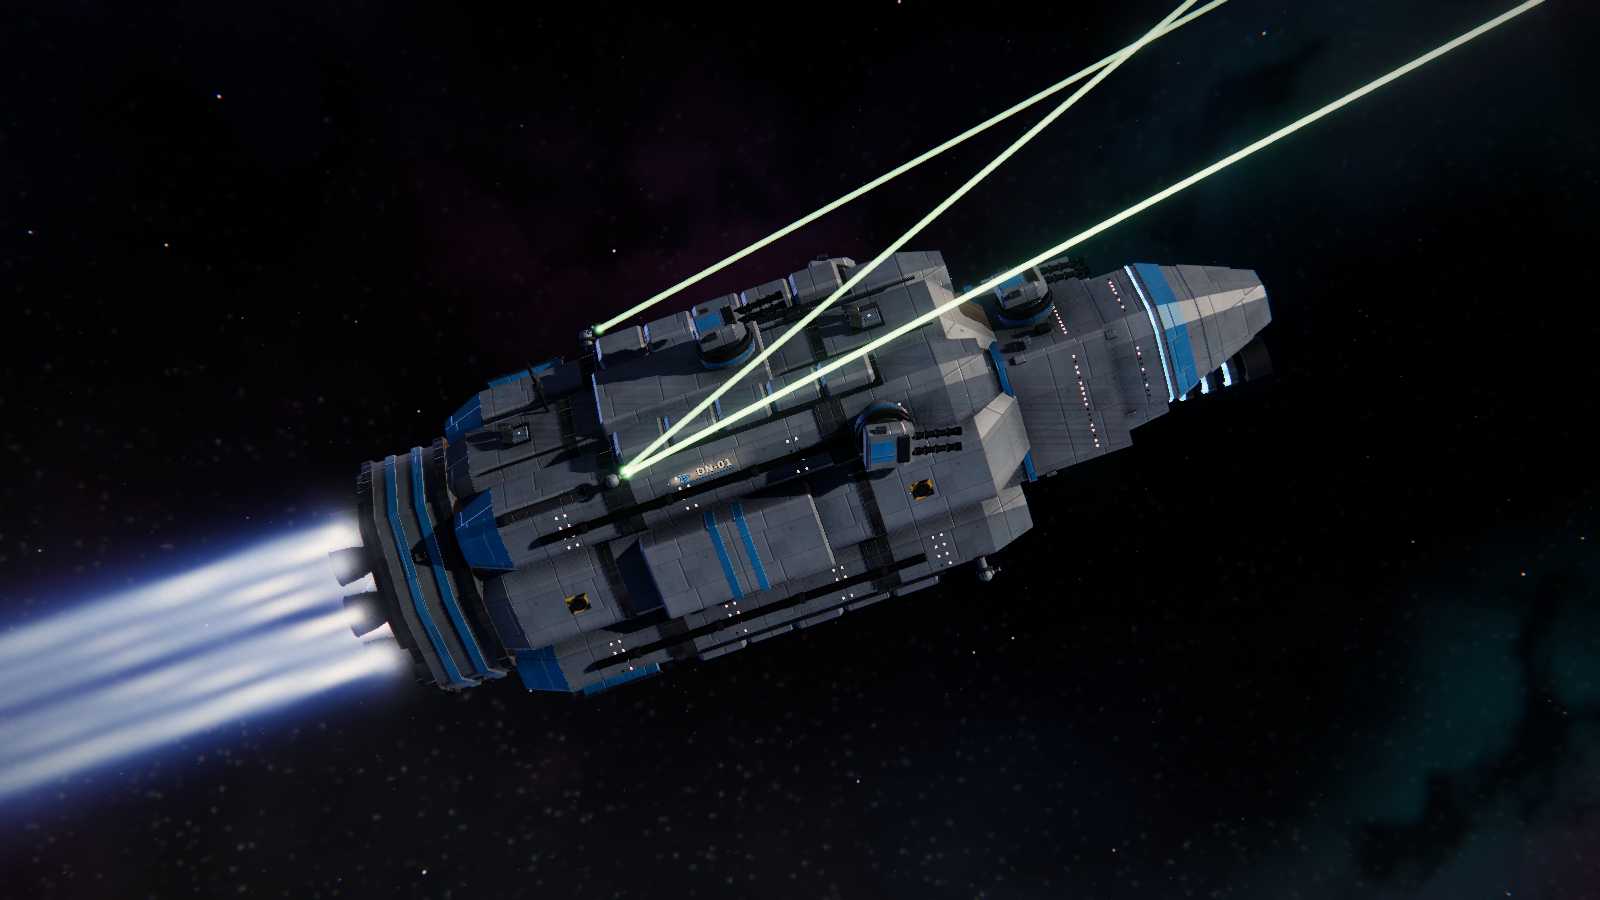
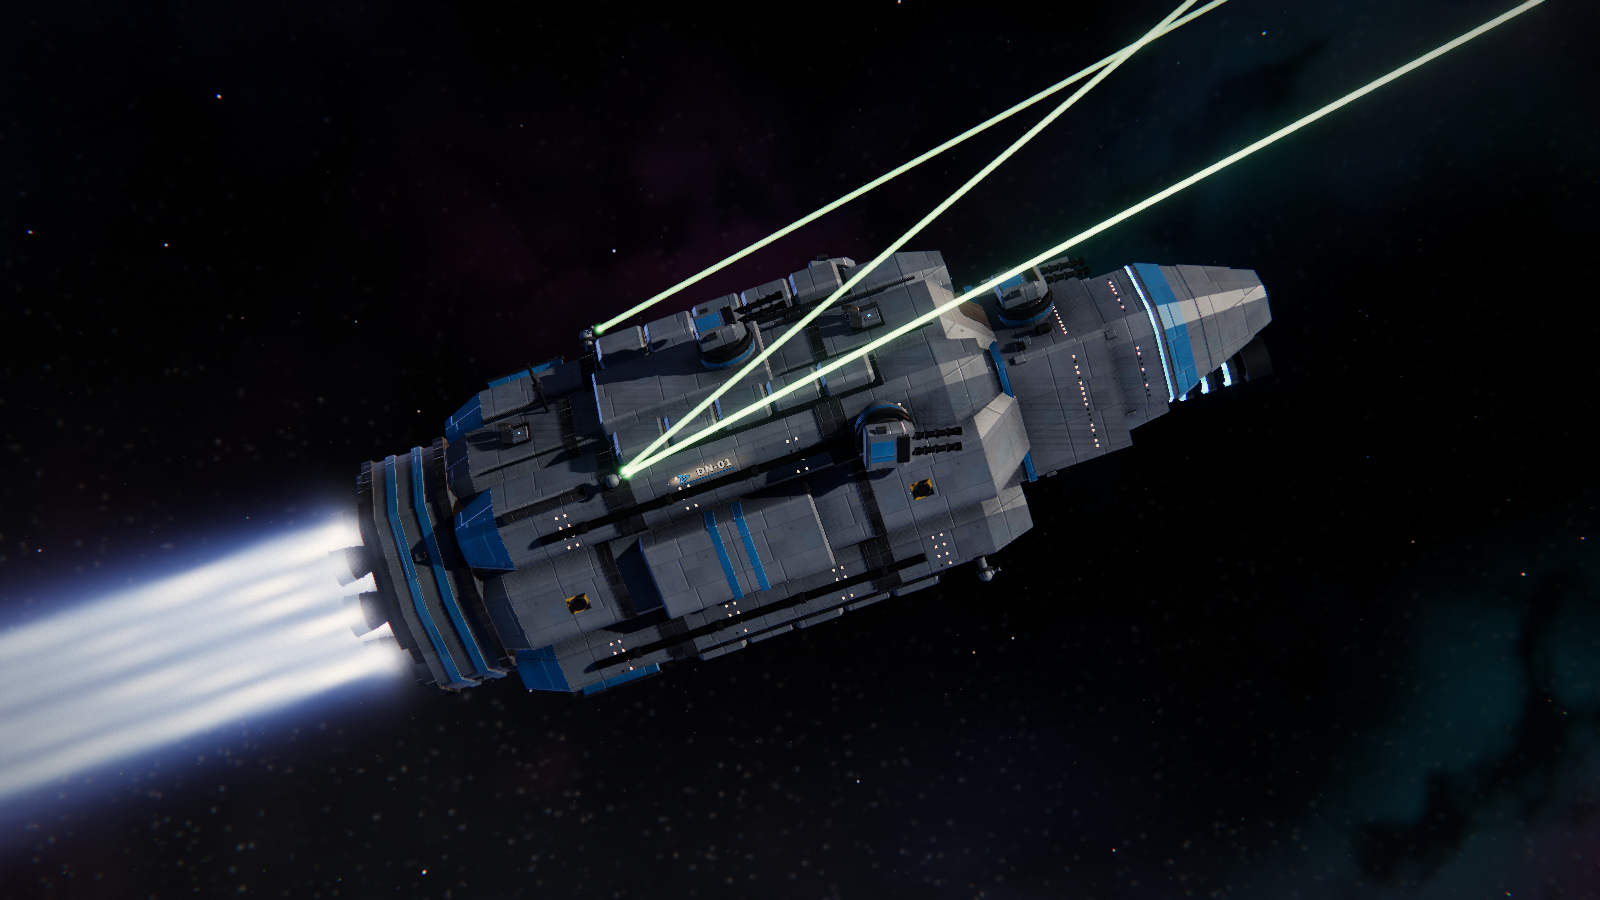
Plume: no veil for a camera inside the spear, dreadnought.png re-shot
Gas within 3 beam radii of the lens (along the view ray, over the capped
crossing angle) is not drawn, so a camera dead astern inside the spear sees
the bright root at the ship, not a veil of its own surroundings; mirrored in
PlumeProfile.jetColumn and tested from in-core cameras. The scrub test now
fails on a missed sample instead of passing it. dreadnought.png re-shot with
its README command (staged copy of the same battle); README lists the lit-
torch frames that were not re-shot.

Claude-Session: https://claude.ai/code/session_01UG3jV6zwB9tH5e8W89WnJJ

Changed region(s): [[0.0, 0.56, 0.2812, 0.9022]]

diff --git a/visualizer/tests/plume.test.js b/visualizer/tests/plume.test.js
@@ -14,7 +14,7 @@ function fakeCanvas() { return { width: 4, height: 4, style: {}, getContext: () 
 globalThis.document ??= { createElement: () => fakeCanvas() };
 
 const {
-  JET_CORE_DEG, JET_MAX_DEG, JET_REACH_KM, JET_LEVEL, JET_FALL, JET_NEAR_KM, JET_CAP, JET_SEGMENTS, JET_GAIN_SIN, TAN_CORE,
+  JET_CORE_DEG, JET_MAX_DEG, JET_REACH_KM, JET_LEVEL, JET_FALL, JET_NEAR_KM, JET_LENS_CLEAR, JET_CAP, JET_SEGMENTS, JET_GAIN_SIN, TAN_CORE,
   jetAxial, jetWidth, jetColumn, jetCap, driveRadius
 } = await import('../src/render/PlumeProfile.js');
 const { DriveJets, jetPose, NOZZLE_AFT } = await import('../src/render/DriveJet.js');
@@ -86,7 +86,9 @@ function brute(ro, rd, w0) {
     const x = ro[0] + rd[0] * t, y = ro[1] + rd[1] * t, z = -(ro[2] + rd[2] * t);
     if (z < 0 || z > JET_REACH_KM) continue;
     const w = jetWidth(z, w0);
-    col += jetAxial(z) / (1.7724539 * w) * Math.exp(-(x * x + y * y) / (w * w)) * dt;
+    const rc = JET_LENS_CLEAR * w / Math.max(Math.hypot(rd[0], rd[1]), JET_GAIN_SIN);
+    const lens = 1 - Math.exp(-(t * t) / (rc * rc));
+    col += jetAxial(z) / (1.7724539 * w) * Math.exp(-(x * x + y * y) / (w * w)) * lens * dt;
   }
   return col;
 }
@@ -196,6 +198,31 @@ test('looking straight down the axis the jet is bounded and stays on the ship', 
     }
     assert.ok(peak < 0.5 * JET_LEVEL, `${camZ} km ahead: a faint ring (${peak.toFixed(3)})`);
     assert.ok(wide < 0.05 * peak + 1e-4, `${camZ} km ahead: light outside 6 degrees (${wide.toFixed(4)} vs ${peak.toFixed(3)})`);
+  }
+});
+
+test('a camera sitting in the beam (dead astern) sees no veil of its own surroundings', () => {
+  // the old risk: inside the cone the jet is drawn at the lens, and an
+  // optically thin beam around the camera would glow the same in every direction
+  for (const type of ['corvette', 'battleship']) {
+    const w0 = drive(type).driveR * trueK(type);
+    for (const aft of [0.2, 0.5, 2, 8]) {
+      const cam = [0.3 * jetWidth(aft, w0), 0, -aft];   // in the core
+      // the view of a camera looking at the ship, but for the ship itself (the
+      // bright root around the bells is the disc it should see); looking the
+      // other way, down the jet, it sees the beam converge - also not a veil
+      let veil = 0;
+      for (let off = 0.3; off <= 1.75; off += 0.02) {
+        for (const phi of [0, 1.3, 2.6]) {
+          const rd = unit([Math.sin(off) * Math.cos(phi), Math.sin(off) * Math.sin(phi), Math.cos(off)]);
+          veil = Math.max(veil, jetCap(jetColumn(cam, rd, { w0 }, { pixelWorld: PX720 })));
+        }
+      }
+      assert.ok(veil < 0.05, `${type} ${aft} km astern: veil ${veil.toFixed(3)}`);
+      // and toward the ship the root is still there
+      const toShip = toward(cam, [0, 0, -0.01]);
+      assert.ok(jetCap(jetColumn(cam, toShip, { w0 }, { pixelWorld: PX720 })) >= 0, 'finite');
+    }
   }
 });
 
@@ -346,6 +373,6 @@ test('ignition and cutoff are instant along the whole plume, and a scrub shows t
     const v = look(t);
     for (const s of times) if (Math.abs(t - s) < 1 / 120) first.set(s, look(s)), void v;
   }
-  for (const s of [...times].reverse()) { look(9 - s); assert.equal(look(s), first.get(s) ?? look(s), `t = ${s}`); }
+  for (const s of [...times].reverse()) { look(9 - s); assert.ok(first.has(s), `sampled ${s}`); assert.equal(look(s), first.get(s), `t = ${s}`); }
   torch.dispose();
 });

diff --git a/visualizer/src/render/PlumeProfile.js b/visualizer/src/render/PlumeProfile.js
@@ -60,6 +60,13 @@ export const JET_CAP = 2.0;
  * held at 1/JET_GAIN_SIN (a crossing at ~27 degrees) - see above.
  */
 export const JET_GAIN_SIN = 0.45;
+/**
+ * Gas within this many beam radii of the lens (measured along the view ray,
+ * divided by the capped crossing angle) is not drawn: a camera sitting in
+ * the beam (a chase camera dead astern) would otherwise look through a veil
+ * of its own surroundings.
+ */
+export const JET_LENS_CLEAR = 3;
 /** Pixel floor of the beam radius (pixels); the floor keeps the energy, so a far spear is a faint hairline. */
 export const JET_PIXEL_FLOOR = 0.75;
 /** Sub-chords of the analytic column per pixel, by graphics tier. */
@@ -193,7 +200,11 @@ export function jetColumn(ro, rd, jet, opt = {}) {
       d2 = d2line;
       G = 0.5 * (erfS(k * (b - tc)) - erfS(k * (a - tc))) / sinT;
     }
-    col += S * Math.exp(-d2 / (wf * wf)) * G * gain;
+    // (at the sub-chord's point nearest the axis, where its Gaussian mass is)
+    const tl = par ? tm : Math.min(Math.max(tc, a), b);
+    const rc = JET_LENS_CLEAR * wf / Math.max(sinT, JET_GAIN_SIN);   // the beam's length along a grazing ray
+    const lens = 1 - Math.exp(-(tl * tl) / (rc * rc));
+    col += S * Math.exp(-d2 / (wf * wf)) * G * gain * lens;
   }
   return col;
 }

diff --git a/visualizer/src/render/DriveJet.js b/visualizer/src/render/DriveJet.js
@@ -1,6 +1,6 @@
 import * as THREE from 'three';
 import {
-  JET_REACH_KM, JET_LEVEL, JET_NEAR_KM, JET_FALL, JET_CAP, JET_PIXEL_FLOOR, JET_SEGMENTS, JET_GAIN_SIN,
+  JET_REACH_KM, JET_LEVEL, JET_NEAR_KM, JET_FALL, JET_CAP, JET_PIXEL_FLOOR, JET_SEGMENTS, JET_GAIN_SIN, JET_LENS_CLEAR,
   TAN_CORE, BOUND_TAN, BOUND_R0
 } from './PlumeProfile.js';
 import { getGraphicsSettings } from './Quality.js';
@@ -187,7 +187,12 @@ const fragmentShader = /* glsl */`
         d2 = d2line;
         G = 0.5 * (erfS(k * (b - tc)) - erfS(k * (a - tc))) / sinT;
       }
-      float dc = S * exp(-d2 / (wf * wf)) * G * gain;
+      // no veil when the lens sits in the beam: gas within a few radii of it is not drawn
+      // (at the sub-chord's point nearest the axis, where its Gaussian mass is)
+      float tl = par ? tm : clamp(tc, a, b);
+      float rc = ${f(JET_LENS_CLEAR, 3)} * wf / max(sinT, ${f(JET_GAIN_SIN, 3)});   // the beam's length along a grazing ray
+      float lens = 1.0 - exp(-(tl * tl) / (rc * rc));
+      float dc = S * exp(-d2 / (wf * wf)) * G * gain * lens;
       col += dc;
       hot += dc * exp(-z / ${f(0.6 * JET_NEAR_KM, 4)});
     }

diff --git a/docs/images/readme/README.md b/docs/images/readme/README.md
@@ -3,8 +3,8 @@
 Captured from the Three.js viewer on November 15, 2026 (pass-5 viewer: sun
 shadows, image-based fill, ambient occlusion, new hulls and effects) with
 headless Chromium (Playwright, SwiftShader WebGL) at 1600 × 900 with
-`--gfx high`. `dreadnought.png` and the four `damage-*` images were captured
-on November 17, 2026, `hero.png` and `plume-wash.png` re-shot on November 18,
+`--gfx high`. The four `damage-*` images were captured on November 17, 2026,
+`hero.png`, `dreadnought.png` and `plume-wash.png` re-shot on November 18,
 2026 (the one-piece drive plume), all at the viewer's default hull scale
 (`auto`: real-size hulls up close); see [Hull scale](#hull-scale). The two live-mode images (`live-deliberation.png`,
 `draft-splash.png`) are still the October 25, 2026 captures. These are
@@ -69,13 +69,18 @@ where oversize hulls are visible against real-size blasts as cinematic.
 November 18 re-shoot (drive plume, same commands). The exhaust is now one
 light field from the bells outward (`visualizer/src/render/PlumeProfile.js`):
 the flame and the spear beyond it both start at the nozzle and only fade, so
-the November 17 frames' detached haze is gone. In `hero.png` the eight
-dreadnought plumes are hotter white-blue lances with a glow at the bells; in
+the November 17 frames' detached haze is gone. In `hero.png` and
+`dreadnought.png` the eight dreadnought plumes are hotter white-blue lances
+with a glow at the bells; in
 `plume-wash.png` the battleship's exhaust is a single beam that fades from
 the bells to the washed destroyer instead of a flame, a dark gap and a pale
-cloud around the destroyer. The hero frame was taken from the staged copy of
-the same battle, `p4c_vfix_showcase_s0.json` (substitute it for
-`showcase_s0_200pt.json` in the command if that file is not staged).
+cloud around the destroyer. The two dreadnought frames were taken from the
+staged copy of the same battle, `p4c_vfix_showcase_s0.json` (substitute it
+for `showcase_s0_200pt.json` in the commands if that file is not staged).
+Frames with a lit torch that were not re-shot (`dying-hulk.png`,
+`damage-hulk.png`, `reactor-breach.jpg` and the cinematic fleet and HUD
+shots) still show the November 17 torch: same placement, slightly cooler
+and with the slower, eased dying-drive cough.
 
 ## Recordings
 
